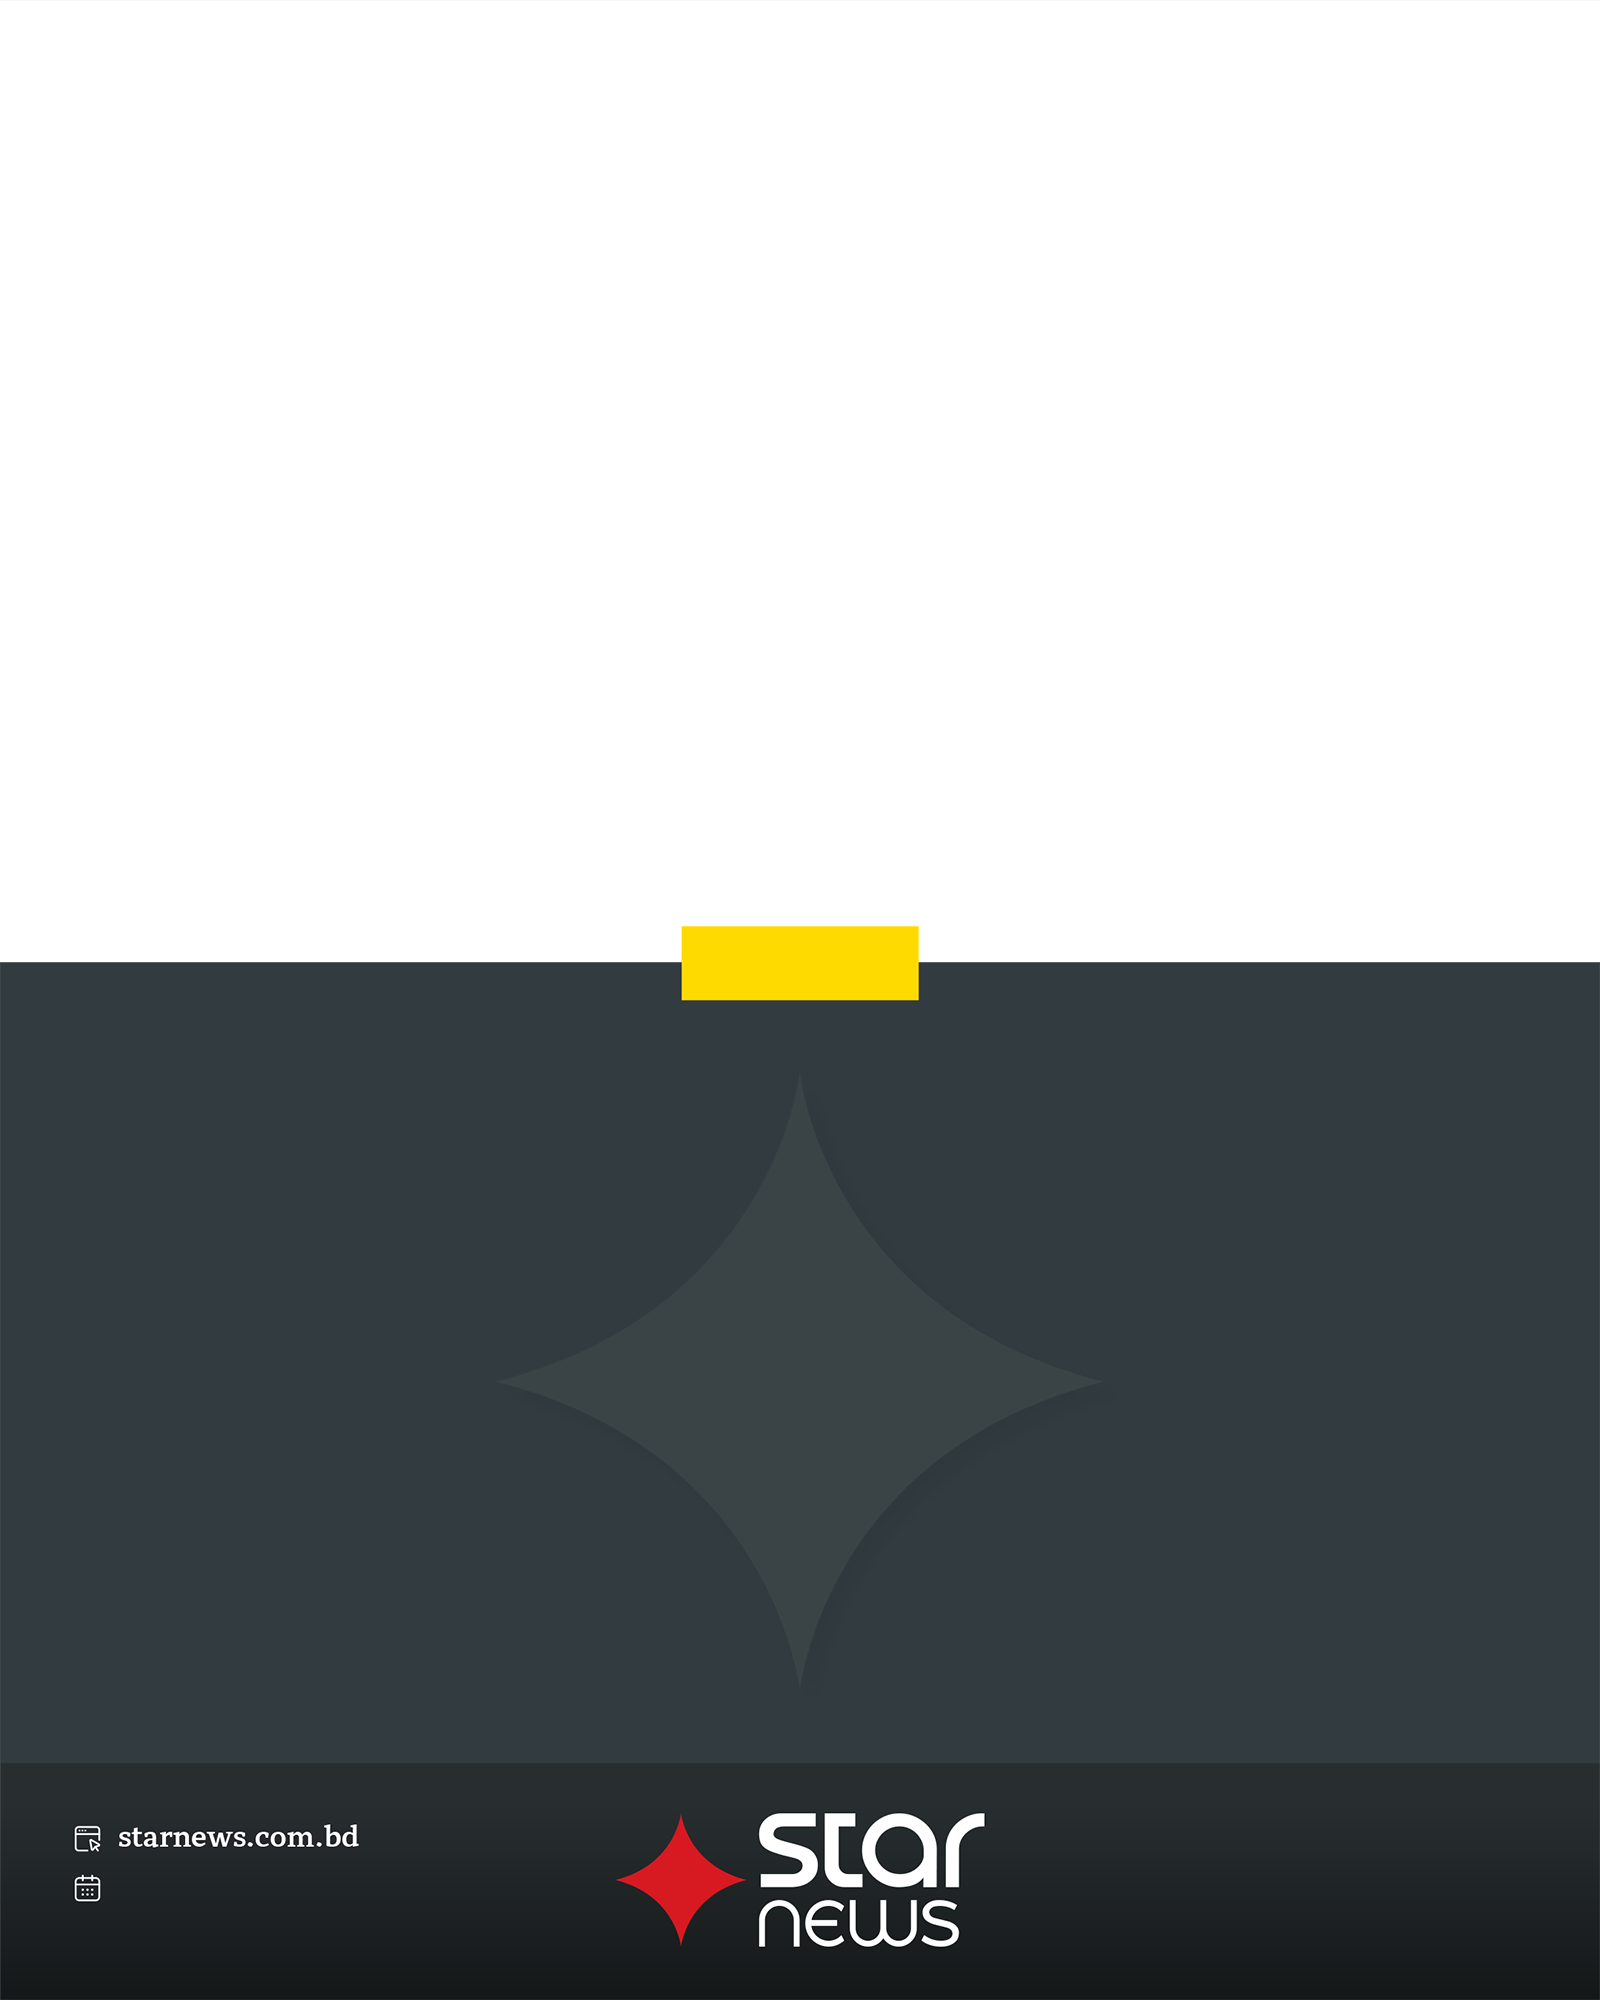
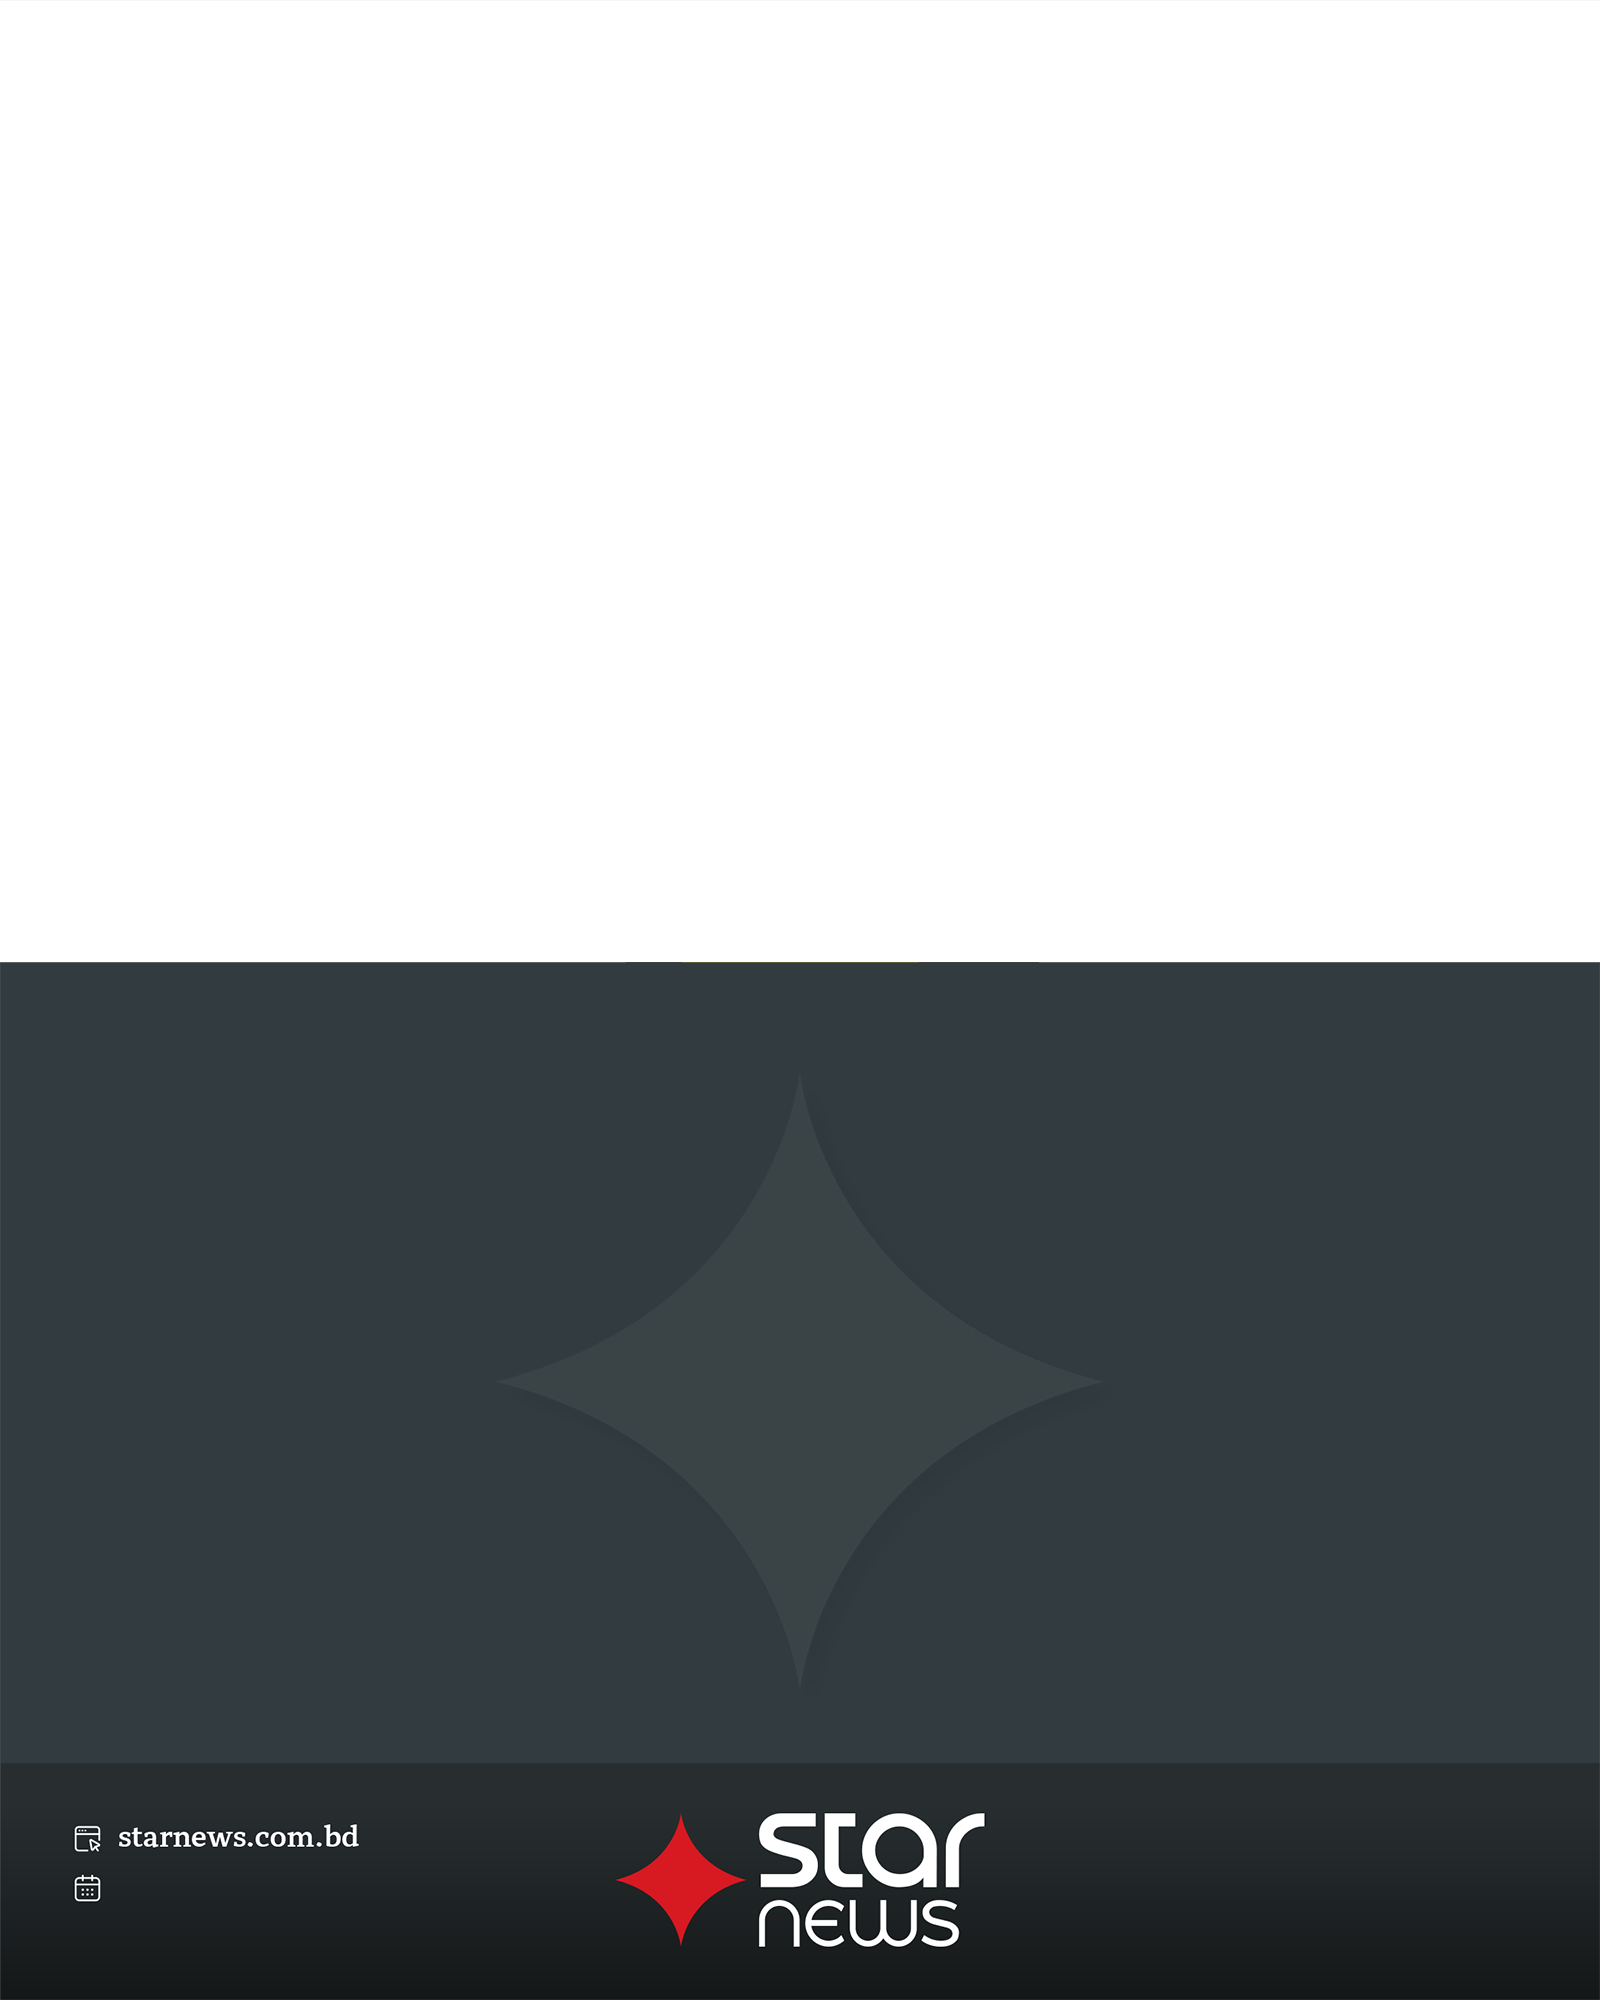
feat: update photoTag position for redesigned art in templates

Changed region(s): [[0.4062, 0.465, 0.5938, 0.527]]

diff --git a/src/config/templates.ts b/src/config/templates.ts
@@ -174,7 +174,7 @@ export const templates: readonly TemplateDefinition[] = [
     date: dateLeft(1870), // calendar icon rows 1875–1900
     dateAlign: 'left',
     dateColor: WHITE,
-    photoTag: pillAt(1028),
+    photoTag: pillAt(927), // redesigned art: pill straddles the photo edge (927–1000)
     // Bottom-left of the photo (0–964).
     photoCredit: creditAbove(964),
     titleRegion: rect(80, 1120, 1440, 520),
